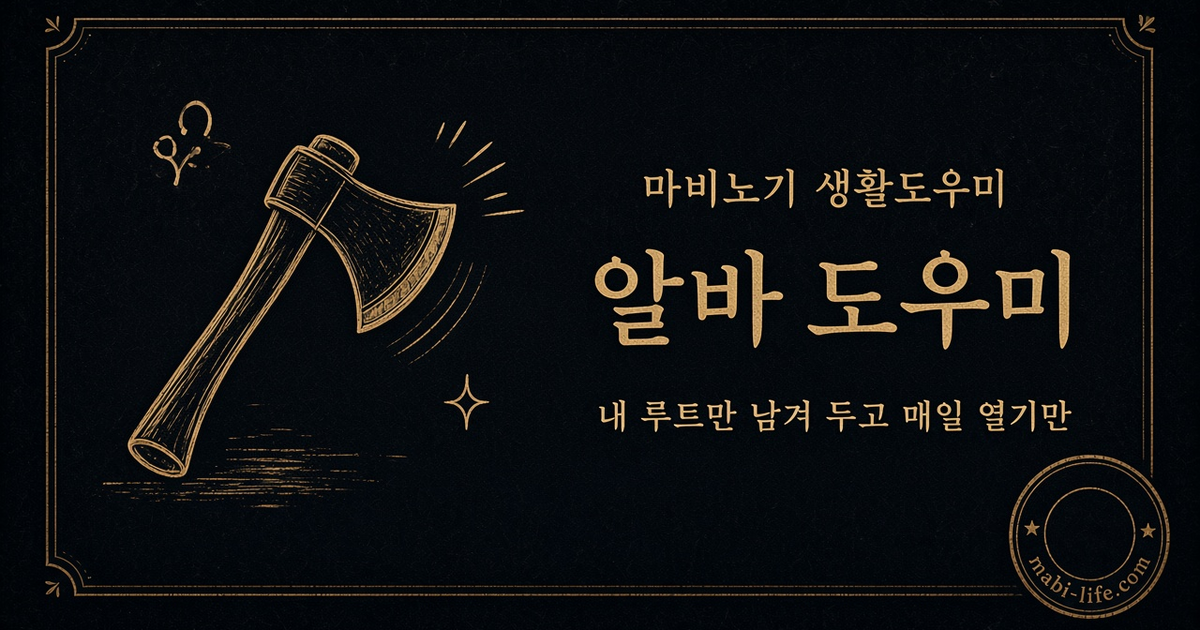
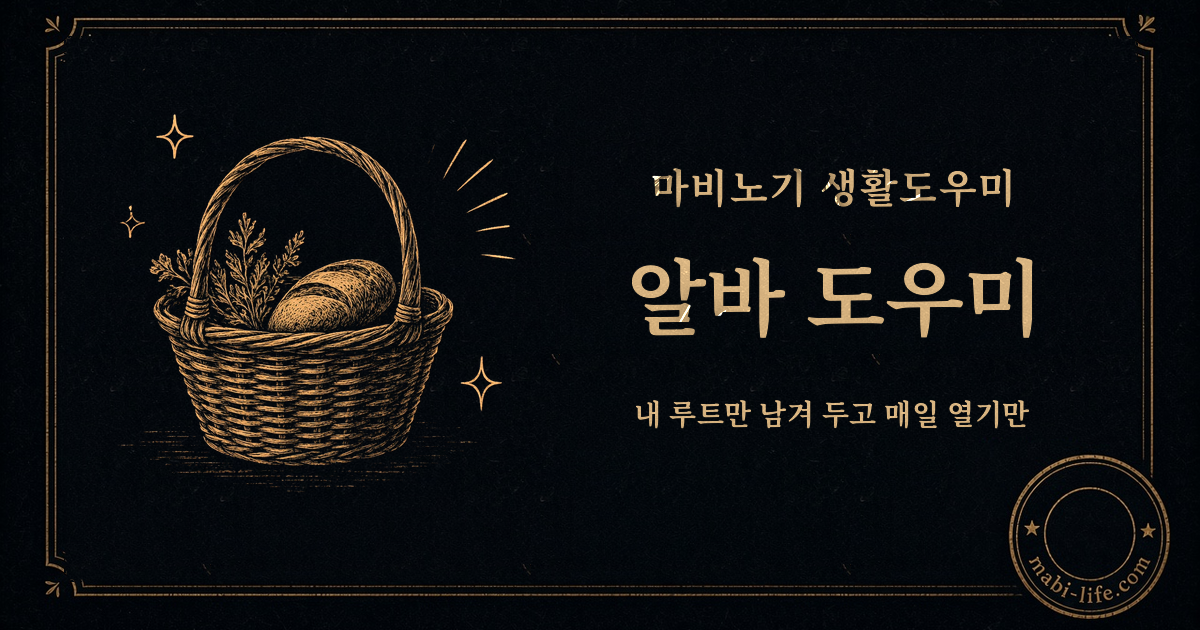
OG 이미지 9장 새 스타일로 통일하고 스케줄 전용 이미지를 연결
글꼴을 맞춘 OG 9장을 교체하고, 스케줄 페이지는 og-schedule.png를 쓰도록 바꿨다.
캐시 무효화 값은 ?v=20261117a 로 통일했다. 이미지는 oxipng로 무손실 압축했다.

diff --git a/docs/craft/index.html b/docs/craft/index.html
@@ -10,10 +10,10 @@
 <meta property="og:title" content="마비노기 제작 계산기·구슬 | 위즈니의 생활도우미">
 <meta property="og:description" content="마비노기 제작 계산기로 재료 트리와 부족한 양을 계산하고, 구슬 가성비도 비교해 봐요. 경매장 재료 시세와 정가 코인 교환을 한곳에서 볼 수 있어요.">
 <meta property="og:url" content="https://mabi-life.com/craft/">
-<meta property="og:image" content="https://mabi-life.com/og-craft.png?v=20261104b">
+<meta property="og:image" content="https://mabi-life.com/og-craft.png?v=20261117a">
 <meta property="og:image:width" content="1200">
 <meta property="og:image:height" content="630">
-<meta name="twitter:card" content="summary_large_image"><meta name="twitter:image" content="https://mabi-life.com/og-craft.png?v=20261104b"><meta name="twitter:description" content="마비노기 제작 계산기로 재료 트리와 부족한 양을 계산하고, 구슬 가성비도 비교해 봐요. 경매장 재료 시세와 정가 코인 교환을 한곳에서 볼 수 있어요."><meta name="twitter:title" content="마비노기 제작 계산기·구슬 | 위즈니의 생활도우미">
+<meta name="twitter:card" content="summary_large_image"><meta name="twitter:image" content="https://mabi-life.com/og-craft.png?v=20261117a"><meta name="twitter:description" content="마비노기 제작 계산기로 재료 트리와 부족한 양을 계산하고, 구슬 가성비도 비교해 봐요. 경매장 재료 시세와 정가 코인 교환을 한곳에서 볼 수 있어요."><meta name="twitter:title" content="마비노기 제작 계산기·구슬 | 위즈니의 생활도우미">
 <link rel="icon" href="/favicon.ico?v=6" sizes="any"><link rel="icon" type="image/png" sizes="32x32" href="/favicon-32.png?v=6">
 <link rel="preconnect" href="https://fonts.googleapis.com"><link rel="preconnect" href="https://fonts.gstatic.com" crossorigin><link href="https://fonts.googleapis.com/css2?family=Noto+Sans+KR:wght@400;500;700;800&display=swap" rel="stylesheet">
 <style>:root {--card:rgba(255,255,255,.05);--line:rgba(247,217,139,.25);--gold:#f7d98b;--tx:#ece8ff;--mu:#a9a2d6}* {box-sizing:border-box;margin:0;padding:0}body {min-height:100vh;font-family:'Noto Sans KR','Apple SD Gothic Neo','Malgun Gothic',sans-serif;background:#0b0918 radial-gradient(circle at 50% 0%,#2b2357 0%,#141029 55%,#0b0918 100%) no-repeat fixed;color:var(--tx);padding:18px 14px}.wrap {max-width:1240px;margin:0 auto}.siteNav {display:flex;align-items:center;gap:2px;margin:0 0 10px;font-size:14px}.siteNav a {color:#a9a2d4;text-decoration:none;padding:3px 10px;border-radius:999px}.siteNav a:hover {color:#ffe7a3}.head {margin:10px 0 18px}.head h1 {font-size:30px;font-weight:800;background:linear-gradient(90deg,#f7d98b,#fff3cf,#f7d98b);-webkit-background-clip:text;background-clip:text;color:transparent}.verBadge {font-size:12.5px;color:var(--mu);border:1px solid var(--line);border-radius:999px;padding:1px 8px;margin-left:6px;vertical-align:middle;font-weight:500;-webkit-text-fill-color:var(--mu)}.head p {margin-top:6px;color:var(--mu);font-size:16px}.bar {display:flex;gap:10px;flex-wrap:wrap;align-items:center;margin-bottom:12px}.btn {font:inherit;cursor:pointer;padding:7px 14px;border-radius:999px;font-size:14px;font-weight:700;background:rgba(255,255,255,.07);border:1px solid rgba(247,217,139,.35);color:#f3eefe}.btn:disabled {opacity:.5;cursor:not-allowed}select, input[type=number] {background:#120e28;border:1px solid var(--line);color:var(--tx);border-radius:8px;padding:6px 8px;font:inherit;font-size:14px}input[type=number] {width:72px}.totals {display:flex;gap:22px;flex-wrap:wrap;align-items:center;padding:10px 18px;background:var(--card);border:1px solid var(--line);border-radius:16px;font-size:14px;margin-bottom:10px}.totals b {color:var(--gold)}.cond {font-size:14px;color:var(--mu);margin-bottom:22px}.cond b {color:var(--gold)}.scroll {overflow-x:auto;padding-bottom:10px;width:calc(100vw - 28px);position:relative;left:50%;transform:translateX(-50%)}.tree {display:inline-block;min-width:100%;text-align:center}.tree ul {display:flex;justify-content:center;list-style:none;margin:0;padding:18px 0 0;position:relative}#root>ul, .treeRoot>ul {padding-top:0}.tree li {display:flex;flex-direction:column;align-items:center;position:relative;padding:18px 2px 0;min-width:0}#root>ul>li, .treeRoot>ul>li {padding-top:0}.tree li:before, .tree li:after {content:"";position:absolute;top:0;width:50%;border-top:1px solid #c9a24a99}.tree li:before {right:50%}.tree li:after {left:50%;border-left:1px solid #c9a24a99;height:18px}.tree li:first-child:before, .tree li:last-child:after {border:0}.tree li:last-child:before {border-right:1px solid #c9a24a99;height:18px}.tree li:only-child:before {border:0}.tree li:only-child:after {border-top:0;left:50%}#root>ul>li:before, .treeRoot>ul>li:before, #root>ul>li:after, .treeRoot>ul>li:after {display:none}.tree ul ul:before {content:"";position:absolute;top:0;left:50%;height:18px;border-left:1px solid #c9a24a99}.bal {display:inline-flex;flex-direction:column;align-items:center;gap:3px;background:#16213a;border:1px solid #c9a24a66;border-radius:8px;padding:6px 9px;white-space:nowrap;font-size:14px}.tree ul ul .bal {padding:4px 6px;font-size:13.5px;max-width:118px;white-space:normal;text-align:center}.tree ul ul .bal .t {flex-wrap:wrap;justify-content:center;gap:3px}.tree ul ul .q {white-space:nowrap}.bal.craft {cursor:pointer}.bal.craft:hover {border-color:#e8c66a}.bal .t {display:flex;align-items:center;gap:5px}.bal b {font-weight:600}.bal.goal {--ac:#e8c66a;background:#2a2410;border-color:#e8c66a;padding:8px 14px}.bal.goal b {font-size:16px;color:#e8c66a}.tag {font-size:11.5px;border:1px solid;border-radius:4px;padding:0 4px}.ic {width:18px;height:18px;border-radius:4px;display:inline-grid;place-items:center;font-size:12.5px}.ic.im {width:24px;height:24px;object-fit:contain;border-radius:0;flex:none}.coin {display:block;font-size:11.5px;color:#d59bff;text-decoration:none;margin-top:2px;white-space:nowrap}.coin.best, #cond a {color:#d59bff}.coin.best {font-weight:700}.coin:hover {text-decoration:underline}.chev {color:#e8c66a99;font-size:11.5px}.q {font-size:13.5px;font-variant-numeric:tabular-nums;color:#8a96b3;display:flex;align-items:center;gap:3px}.q em {font-style:normal;color:#ff8a7a;font-weight:700}.q.ok em {color:#7fd99a}.q input[type=number] {width:46px;padding:0 3px;font-size:12.5px;border-radius:4px}.need0 {color:#6fd39b!important}.hint {font-size:12.5px;color:#7d75b0;margin-top:4px}.siteFoot {margin:28px auto 18px;padding:22px 16px 28px;max-width:1180px;text-align:center;font-size:14px;line-height:1.65;color:#8a90a0;position:relative;border-top:1px solid #232733}.siteFoot .gold {position:absolute;top:-1px;left:50%;transform:translateX(-50%);width:80px;height:2px;background:linear-gradient(90deg,transparent,#f7d98b,transparent)}.siteFoot a {color:#c9b27a;text-decoration:none}.siteFoot a:hover {color:#f7d98b;text-decoration:underline}.siteFoot a {color:inherit;text-decoration:none}.siteFoot a:hover {text-decoration:underline}#root, .treeRoot {display:flex;flex-direction:column;align-items:flex-start}.row {display:flex;gap:6px;position:relative;padding-top:22px;width:max-content}.row:first-child {padding-top:0}.row:before {content:"";position:absolute;top:0;left:var(--px,50%);height:22px;border-left:1px solid #c9a24a99}.row:first-child:before {display:none}.row .bal.open {outline:2px solid #e8c66a;box-shadow:0 4px 12px #e8c66a33}.row.drop {padding-top:14px}.row.drop:before {height:14px;border-left-style:dashed}.row {transition:opacity .2s,transform .2s}.row.out {opacity:0;transform:translateY(-10px)}.bal.ph {visibility:visible!important;opacity:.28;filter:grayscale(1);background:transparent!important;border:1px solid #c9a24a88!important;pointer-events:none;box-shadow:none!important;outline:0!important;cursor:default}.bal.press {transform:scale(.95);transition:transform .1s;box-shadow:0 0 0 3px #e8c66a55}.row:before {top:-1px;height:23px}.row.drop {padding-top:12px}.row.drop:before {top:-1px;height:13px;border-left:2px solid #e8c66a}.row.drop+.row:before {border-left:2px solid #e8c66a}.row.drop+.row {padding-top:22px}.row:not(.drop):before {display:none}.row .ln {position:absolute;border-left:1px solid #c9a24acc;border-top:1px solid #c9a24acc;pointer-events:none}.row.drop+.row .ln {border-color:#e8c66a}html {scrollbar-gutter:stable}#root>.row:first-child .bal, .treeRoot>.row:first-child .bal {animation:none!important;transform:none!important}.bal.ph {visibility:hidden!important;opacity:1;filter:none}.bal.ph:after {content:"";visibility:visible;position:absolute;left:50%;top:-1px;bottom:-13px;border-left:2px solid #e8c66a}.bal.ph {position:relative}.bal.press {transform:scale(.92)!important;transition:transform .11s cubic-bezier(.5,0,.75,0)!important}.row.drop:before {display:none}.scroll {overflow-y:hidden;scrollbar-color:#3a4256 transparent;scrollbar-width:thin}.scroll::-webkit-scrollbar {height:8px;background:transparent}.scroll::-webkit-scrollbar-thumb {background:#3a4256;border-radius:4px}html {scrollbar-gutter:auto}#root .row, .treeRoot .row {contain:layout}.bal.ph:after {display:none!important}#root .ln, .treeRoot .ln, #root .row.drop+.row .ln, .treeRoot .row.drop+.row .ln {border-color:#c9a24acc!important;border-width:1px 0 0 1px!important;border-style:solid!important}#root .row:before, .treeRoot .row:before {border-left:1px solid #c9a24acc!important}#root, .treeRoot {position:relative;display:block!important}#root .nd, .treeRoot .nd {position:absolute;margin:0;white-space:nowrap}svg.lines {position:absolute;left:0;top:0;pointer-events:none;overflow:visible}.bal.nd.press {transform:scale(.92)}#vCoin input[type=number] {width:110px;text-align:right}#vCoin .tabs {display:flex;border:1px solid var(--line);border-radius:12px 12px 0 0;overflow:hidden}#vCoin .tabs button {flex:1;font:inherit;font-weight:700;font-size:16px;padding:10px;cursor:pointer;background:transparent;color:var(--mu);border:0}#vCoin .tabs button.on {background:linear-gradient(90deg,#c9a24a,#f7d98b);color:#1a1530}#vCoin .panel {border:1px solid var(--line);border-top:0;border-radius:0 0 12px 12px;background:var(--card);padding:14px}#vCoin .panel h2 {font-size:19px;margin-bottom:10px}#vCoin .bar {display:flex;gap:10px 16px;flex-wrap:wrap;align-items:center;font-size:16px;margin-bottom:10px}#vCoin input[type=number], #vCoin select {background:#120e28;border:1px solid var(--line);color:var(--tx);border-radius:8px;padding:6px 8px;font:inherit;font-size:16px}#vCoin input[type=number] {width:110px;text-align:right}#vCoin input[type=number]::-webkit-inner-spin-button, #vCoin input[type=number]::-webkit-outer-spin-button {-webkit-appearance:none;margin:0}input[type=number] {-moz-appearance:textfield;appearance:textfield}#vCoin .prog {height:6px;border-radius:9px;background:#2a2450;overflow:hidden;margin:-2px 0 12px}.prog i {display:block;height:100%;background:linear-gradient(90deg,#c9a24a,#f7d98b);width:0}#vCoin .sum {font-size:14px;color:var(--mu);margin-bottom:10px}.sum b {color:var(--gold)}#vCoin table {width:100%;border-collapse:collapse;font-size:16px}#vCoin th {font-size:14px;color:var(--mu);font-weight:500;padding:8px 6px;border-bottom:1px solid var(--line);cursor:pointer;user-select:none;white-space:nowrap}#vCoin td {padding:9px 6px;border-bottom:1px solid rgba(255,255,255,.06);vertical-align:middle}#vCoin th:nth-child(2), #vCoin td:nth-child(2) {text-align:center}th:nth-child(3), td:nth-child(3) {text-align:right}th:nth-child(4), td:nth-child(4) {text-align:center;width:46px}th:first-child {text-align:left}#vCoin td small {display:block;font-size:12.5px;color:var(--mu)}#vCoin td.p {font-variant-numeric:tabular-nums;white-space:nowrap}td.p b {color:var(--gold)}#vCoin tr.best td {background:rgba(247,217,139,.09)}tr.best td:first-child:before {content:"👑 "}#vCoin tr.ign td {opacity:.38}tr.ign td:last-child {opacity:1}#vCoin .ok {color:#7fd99a}.bad {color:#f39a9a}#vCoin .bead {font-size:14.5px;line-height:1.7;border:1px dashed var(--line);border-radius:10px;padding:8px 10px;margin-bottom:10px}.bead b {color:var(--gold)}.bead small {color:var(--mu)}.bead details {margin-top:4px;font-size:13.5px;color:var(--mu)}.bead details div {padding:2px 0;border-bottom:1px solid rgba(255,255,255,.05)}#vCoin textarea {width:100%;min-height:60px;background:#120e28;border:1px solid var(--line);color:var(--tx);border-radius:8px;padding:6px 8px;font:inherit;font-size:14px}.vtabs {display:flex;gap:6px;margin:0 0 14px}.vtabs a {font-weight:700;font-size:16px;padding:7px 16px;border-radius:999px;text-decoration:none;color:var(--mu);border:1px solid var(--line)}.vtabs a.on {background:linear-gradient(90deg,#c9a24a,#f7d98b);color:#1a1530;border-color:transparent}#vCoin .bchart {display:block;width:100%;height:auto;margin:6px 0 2px;font-size:11.5px;fill:#a9a2d6}#vCoin .leg {font-size:12.5px;color:var(--mu)}#vCoin .leg i {display:inline-block;width:8px;height:8px;border-radius:50%;margin:0 4px 0 8px}#vCoin .leg span {margin-left:8px}#vCoin tr.nadv td {opacity:.5}#vCoin td.v {text-align:center;white-space:nowrap;font-size:14px}#vCoin td.v small {display:block}#vCoin .mu {color:var(--mu)}#vCoin .ovd {font-size:13.5px;color:var(--mu);margin:-4px 0 10px}#vCoin .ovd input {width:110px;margin:4px 6px 0 0}#vCoin table.imt {width:auto;margin:4px 0;font-size:13.5px;border-collapse:collapse}#vCoin table.imt th, #vCoin table.imt td {padding:2px 10px 2px 0;text-align:right;font-weight:normal;border:0}#vCoin table.imt th {color:var(--mu);font-size:12.5px}#vCoin table.imt td:first-child, #vCoin table.imt th:first-child {text-align:left}#vCoin table.imt tr.ex td {opacity:.55;color:var(--mu)}#vCoin table.imt td:last-child {white-space:nowrap}#vCoin .bead .mix {margin:2px 0 4px;font-size:13.5px}#vCoin {max-width:900px;margin:34px auto 0;scroll-margin-top:12px}.secH {font-size:23px;font-weight:800;color:var(--gold);margin:0 0 6px;padding-top:18px;border-top:1px solid var(--line)}.secH small {font-size:14px;color:var(--mu);font-weight:500;margin-left:6px}/* 마인드맵 120%: zoom 대신 실제 크기 확대 (zoom은 측정값과 연결선 좌표가 어긋나 말풍선이 중앙에서 벗어남) */

diff --git a/docs/guide/horn/index.html b/docs/guide/horn/index.html
@@ -5,10 +5,10 @@
 <meta property="og:title" content="마비노기 거뿔(거대한 외침의 뿔피리) 검색하는 법 — 위즈니의 마비노기 생활도우미">
 <meta property="og:description" content="마비노기 거뿔(거대한 외침의 뿔피리)을 류트·만돌린·하프·울프 서버별로 모아 최근 48시간 글을 검색하는 법. 구구·ㅍㅍ, 구슬 시세, 파티 모집을 찾는 요령을 안내해요.">
 <meta property="og:url" content="https://mabi-life.com/guide/horn/">
-<meta property="og:image" content="https://mabi-life.com/og.png?v=20261104c">
+<meta property="og:image" content="https://mabi-life.com/og.png?v=20261117a">
 <meta property="og:image:width" content="1200">
 <meta property="og:image:height" content="630">
-<meta name="twitter:card" content="summary_large_image"><meta name="twitter:image" content="https://mabi-life.com/og.png?v=20261104c"><meta name="twitter:description" content="마비노기 거뿔(거대한 외침의 뿔피리)을 류트·만돌린·하프·울프 서버별로 모아 최근 48시간 글을 검색하는 법. 구구·ㅍㅍ, 구슬 시세, 파티 모집을 찾는 요령을 안내해요."><meta name="twitter:title" content="마비노기 거뿔(거대한 외침의 뿔피리) 검색하는 법 — 위즈니의 마비노기 생활도우미"><meta name="viewport" content="width=device-width,initial-scale=1"><meta name="description" content="마비노기 거뿔(거대한 외침의 뿔피리)을 류트·만돌린·하프·울프 서버별로 모아 최근 48시간 글을 검색하는 법. 구구·ㅍㅍ, 구슬 시세, 파티 모집을 찾는 요령을 안내해요."><link rel="icon" href="/favicon.ico?v=6" sizes="any"><link rel="icon" type="image/png" sizes="32x32" href="/favicon-32.png?v=6"><link rel="icon" type="image/png" sizes="192x192" href="/favicon-192.png?v=6"><link rel="apple-touch-icon" href="/apple-touch-icon.png?v=6"><link rel="preconnect" href="https://fonts.googleapis.com"><link href="https://fonts.googleapis.com/css2?family=Gowun+Batang:wght@400;700&family=Gowun+Dodum&display=swap" rel="stylesheet"><style>
+<meta name="twitter:card" content="summary_large_image"><meta name="twitter:image" content="https://mabi-life.com/og.png?v=20261117a"><meta name="twitter:description" content="마비노기 거뿔(거대한 외침의 뿔피리)을 류트·만돌린·하프·울프 서버별로 모아 최근 48시간 글을 검색하는 법. 구구·ㅍㅍ, 구슬 시세, 파티 모집을 찾는 요령을 안내해요."><meta name="twitter:title" content="마비노기 거뿔(거대한 외침의 뿔피리) 검색하는 법 — 위즈니의 마비노기 생활도우미"><meta name="viewport" content="width=device-width,initial-scale=1"><meta name="description" content="마비노기 거뿔(거대한 외침의 뿔피리)을 류트·만돌린·하프·울프 서버별로 모아 최근 48시간 글을 검색하는 법. 구구·ㅍㅍ, 구슬 시세, 파티 모집을 찾는 요령을 안내해요."><link rel="icon" href="/favicon.ico?v=6" sizes="any"><link rel="icon" type="image/png" sizes="32x32" href="/favicon-32.png?v=6"><link rel="icon" type="image/png" sizes="192x192" href="/favicon-192.png?v=6"><link rel="apple-touch-icon" href="/apple-touch-icon.png?v=6"><link rel="preconnect" href="https://fonts.googleapis.com"><link href="https://fonts.googleapis.com/css2?family=Gowun+Batang:wght@400;700&family=Gowun+Dodum&display=swap" rel="stylesheet"><style>
 html{background:#0f1115}body{margin:0;background:radial-gradient(ellipse 90% 60% at 50% 0%,#243044 0%,transparent 55%),linear-gradient(180deg,#14161b,#0f1115 55%,#0c0e12);color:#e6e8ee;font-family:'Gowun Dodum',sans-serif;line-height:1.8;min-height:100vh}
 .doc{max-width:780px;margin:0 auto;padding:40px 22px 20px}
 .back{color:#c9b27a;text-decoration:none;font-size:16px}.back:hover{text-decoration:underline}

diff --git a/docs/guide/index.html b/docs/guide/index.html
@@ -5,10 +5,10 @@
 <meta property="og:title" content="가이드 — 마비노기 알바·물교·제작·경매장 시세 사용법 | 위즈니의 마비노기 생활도우미">
 <meta property="og:description" content="마비노기 알바 시간, 물교 적재, 던전 보상, 분배 계산, 제작 재료, 경매장 시세, 거뿔 검색 도구의 사용 가이드 모음. 실제 화면과 자주 묻는 질문을 정리했어요.">
 <meta property="og:url" content="https://mabi-life.com/guide/">
-<meta property="og:image" content="https://mabi-life.com/og.png?v=20261104c">
+<meta property="og:image" content="https://mabi-life.com/og.png?v=20261117a">
 <meta property="og:image:width" content="1200">
 <meta property="og:image:height" content="630">
-<meta name="twitter:card" content="summary_large_image"><meta name="twitter:image" content="https://mabi-life.com/og.png?v=20261104c"><meta name="twitter:description" content="마비노기 알바 시간, 물교 적재, 던전 보상, 분배 계산, 제작 재료, 경매장 시세, 거뿔 검색 도구의 사용 가이드 모음. 실제 화면과 자주 묻는 질문을 정리했어요."><meta name="twitter:title" content="가이드 — 마비노기 알바·물교·제작·경매장 시세 사용법 | 위즈니의 마비노기 생활도우미"><meta name="viewport" content="width=device-width,initial-scale=1"><meta name="description" content="마비노기 알바 시간, 물교 적재, 던전 보상, 분배 계산, 제작 재료, 경매장 시세, 거뿔 검색 도구의 사용 가이드 모음. 실제 화면과 자주 묻는 질문을 정리했어요."><link rel="icon" href="/favicon.ico?v=6" sizes="any"><link rel="icon" type="image/png" sizes="32x32" href="/favicon-32.png?v=6"><link rel="icon" type="image/png" sizes="192x192" href="/favicon-192.png?v=6"><link rel="apple-touch-icon" href="/apple-touch-icon.png?v=6"><link rel="preconnect" href="https://fonts.googleapis.com"><link href="https://fonts.googleapis.com/css2?family=Gowun+Batang:wght@400;700&family=Gowun+Dodum&display=swap" rel="stylesheet"><style>
+<meta name="twitter:card" content="summary_large_image"><meta name="twitter:image" content="https://mabi-life.com/og.png?v=20261117a"><meta name="twitter:description" content="마비노기 알바 시간, 물교 적재, 던전 보상, 분배 계산, 제작 재료, 경매장 시세, 거뿔 검색 도구의 사용 가이드 모음. 실제 화면과 자주 묻는 질문을 정리했어요."><meta name="twitter:title" content="가이드 — 마비노기 알바·물교·제작·경매장 시세 사용법 | 위즈니의 마비노기 생활도우미"><meta name="viewport" content="width=device-width,initial-scale=1"><meta name="description" content="마비노기 알바 시간, 물교 적재, 던전 보상, 분배 계산, 제작 재료, 경매장 시세, 거뿔 검색 도구의 사용 가이드 모음. 실제 화면과 자주 묻는 질문을 정리했어요."><link rel="icon" href="/favicon.ico?v=6" sizes="any"><link rel="icon" type="image/png" sizes="32x32" href="/favicon-32.png?v=6"><link rel="icon" type="image/png" sizes="192x192" href="/favicon-192.png?v=6"><link rel="apple-touch-icon" href="/apple-touch-icon.png?v=6"><link rel="preconnect" href="https://fonts.googleapis.com"><link href="https://fonts.googleapis.com/css2?family=Gowun+Batang:wght@400;700&family=Gowun+Dodum&display=swap" rel="stylesheet"><style>
 html{background:#0f1115}body{margin:0;background:radial-gradient(ellipse 90% 60% at 50% 0%,#243044 0%,transparent 55%),linear-gradient(180deg,#14161b,#0f1115 55%,#0c0e12);color:#e6e8ee;font-family:'Gowun Dodum',sans-serif;line-height:1.8;min-height:100vh}
 .doc{max-width:780px;margin:0 auto;padding:40px 22px 20px}
 .back{color:#c9b27a;text-decoration:none;font-size:16px}.back:hover{text-decoration:underline}

diff --git a/docs/guide/auction/index.html b/docs/guide/auction/index.html
@@ -5,10 +5,10 @@
 <meta property="og:title" content="마비노기 경매장 시세 — 유물·인챈트·에코스톤·토템·주화 가이드">
 <meta property="og:description" content="마비노기 경매장 시세를 유물, 인챈트 스크롤, 에코스톤, 토템, 브리레흐·탈라가흐 주화 탭에서 비교하는 법. API가 주지 않는 주화 효과 주의점도 안내해요.">
 <meta property="og:url" content="https://mabi-life.com/guide/auction/">
-<meta property="og:image" content="https://mabi-life.com/og.png?v=20261104c">
+<meta property="og:image" content="https://mabi-life.com/og.png?v=20261117a">
 <meta property="og:image:width" content="1200">
 <meta property="og:image:height" content="630">
-<meta name="twitter:card" content="summary_large_image"><meta name="twitter:image" content="https://mabi-life.com/og.png?v=20261104c"><meta name="twitter:description" content="마비노기 경매장 시세를 유물, 인챈트 스크롤, 에코스톤, 토템, 브리레흐·탈라가흐 주화 탭에서 비교하는 법. API가 주지 않는 주화 효과 주의점도 안내해요."><meta name="twitter:title" content="마비노기 경매장 시세 — 유물·인챈트·에코스톤·토템·주화 가이드"><meta name="viewport" content="width=device-width,initial-scale=1"><meta name="description" content="마비노기 경매장 시세를 유물, 인챈트 스크롤, 에코스톤, 토템, 브리레흐·탈라가흐 주화 탭에서 비교하는 법. API가 주지 않는 주화 효과 주의점도 안내해요."><link rel="icon" href="/favicon.ico?v=6" sizes="any"><link rel="icon" type="image/png" sizes="32x32" href="/favicon-32.png?v=6"><link rel="icon" type="image/png" sizes="192x192" href="/favicon-192.png?v=6"><link rel="apple-touch-icon" href="/apple-touch-icon.png?v=6"><link rel="preconnect" href="https://fonts.googleapis.com"><link href="https://fonts.googleapis.com/css2?family=Gowun+Batang:wght@400;700&family=Gowun+Dodum&display=swap" rel="stylesheet"><style>
+<meta name="twitter:card" content="summary_large_image"><meta name="twitter:image" content="https://mabi-life.com/og.png?v=20261117a"><meta name="twitter:description" content="마비노기 경매장 시세를 유물, 인챈트 스크롤, 에코스톤, 토템, 브리레흐·탈라가흐 주화 탭에서 비교하는 법. API가 주지 않는 주화 효과 주의점도 안내해요."><meta name="twitter:title" content="마비노기 경매장 시세 — 유물·인챈트·에코스톤·토템·주화 가이드"><meta name="viewport" content="width=device-width,initial-scale=1"><meta name="description" content="마비노기 경매장 시세를 유물, 인챈트 스크롤, 에코스톤, 토템, 브리레흐·탈라가흐 주화 탭에서 비교하는 법. API가 주지 않는 주화 효과 주의점도 안내해요."><link rel="icon" href="/favicon.ico?v=6" sizes="any"><link rel="icon" type="image/png" sizes="32x32" href="/favicon-32.png?v=6"><link rel="icon" type="image/png" sizes="192x192" href="/favicon-192.png?v=6"><link rel="apple-touch-icon" href="/apple-touch-icon.png?v=6"><link rel="preconnect" href="https://fonts.googleapis.com"><link href="https://fonts.googleapis.com/css2?family=Gowun+Batang:wght@400;700&family=Gowun+Dodum&display=swap" rel="stylesheet"><style>
 html{background:#0f1115}body{margin:0;background:radial-gradient(ellipse 90% 60% at 50% 0%,#243044 0%,transparent 55%),linear-gradient(180deg,#14161b,#0f1115 55%,#0c0e12);color:#e6e8ee;font-family:'Gowun Dodum',sans-serif;line-height:1.8;min-height:100vh}
 .doc{max-width:780px;margin:0 auto;padding:40px 22px 20px}
 .back{color:#c9b27a;text-decoration:none;font-size:16px}.back:hover{text-decoration:underline}

diff --git a/docs/guide/alba/index.html b/docs/guide/alba/index.html
@@ -5,10 +5,10 @@
 <meta property="og:title" content="마비노기 알바 시간·보상 시세 보는 법 — 위즈니의 마비노기 생활도우미">
 <meta property="og:description" content="마비노기 알바(아르바이트) 시간과 알바 보상 시세를 에린 시간에 맞춰 보는 법. 등급·버프, 동선, 예상 골드 계산까지 알바 도우미 화면으로 설명해요.">
 <meta property="og:url" content="https://mabi-life.com/guide/alba/">
-<meta property="og:image" content="https://mabi-life.com/og.png?v=20261104c">
+<meta property="og:image" content="https://mabi-life.com/og.png?v=20261117a">
 <meta property="og:image:width" content="1200">
 <meta property="og:image:height" content="630">
-<meta name="twitter:card" content="summary_large_image"><meta name="twitter:image" content="https://mabi-life.com/og.png?v=20261104c"><meta name="twitter:description" content="마비노기 알바(아르바이트) 시간과 알바 보상 시세를 에린 시간에 맞춰 보는 법. 등급·버프, 동선, 예상 골드 계산까지 알바 도우미 화면으로 설명해요."><meta name="twitter:title" content="마비노기 알바 시간·보상 시세 보는 법 — 위즈니의 마비노기 생활도우미"><meta name="viewport" content="width=device-width,initial-scale=1"><meta name="description" content="마비노기 알바(아르바이트) 시간과 알바 보상 시세를 에린 시간에 맞춰 보는 법. 등급·버프, 동선, 예상 골드 계산까지 알바 도우미 화면으로 설명해요."><link rel="icon" href="/favicon.ico?v=6" sizes="any"><link rel="icon" type="image/png" sizes="32x32" href="/favicon-32.png?v=6"><link rel="icon" type="image/png" sizes="192x192" href="/favicon-192.png?v=6"><link rel="apple-touch-icon" href="/apple-touch-icon.png?v=6"><link rel="preconnect" href="https://fonts.googleapis.com"><link href="https://fonts.googleapis.com/css2?family=Gowun+Batang:wght@400;700&family=Gowun+Dodum&display=swap" rel="stylesheet"><style>
+<meta name="twitter:card" content="summary_large_image"><meta name="twitter:image" content="https://mabi-life.com/og.png?v=20261117a"><meta name="twitter:description" content="마비노기 알바(아르바이트) 시간과 알바 보상 시세를 에린 시간에 맞춰 보는 법. 등급·버프, 동선, 예상 골드 계산까지 알바 도우미 화면으로 설명해요."><meta name="twitter:title" content="마비노기 알바 시간·보상 시세 보는 법 — 위즈니의 마비노기 생활도우미"><meta name="viewport" content="width=device-width,initial-scale=1"><meta name="description" content="마비노기 알바(아르바이트) 시간과 알바 보상 시세를 에린 시간에 맞춰 보는 법. 등급·버프, 동선, 예상 골드 계산까지 알바 도우미 화면으로 설명해요."><link rel="icon" href="/favicon.ico?v=6" sizes="any"><link rel="icon" type="image/png" sizes="32x32" href="/favicon-32.png?v=6"><link rel="icon" type="image/png" sizes="192x192" href="/favicon-192.png?v=6"><link rel="apple-touch-icon" href="/apple-touch-icon.png?v=6"><link rel="preconnect" href="https://fonts.googleapis.com"><link href="https://fonts.googleapis.com/css2?family=Gowun+Batang:wght@400;700&family=Gowun+Dodum&display=swap" rel="stylesheet"><style>
 html{background:#0f1115}body{margin:0;background:radial-gradient(ellipse 90% 60% at 50% 0%,#243044 0%,transparent 55%),linear-gradient(180deg,#14161b,#0f1115 55%,#0c0e12);color:#e6e8ee;font-family:'Gowun Dodum',sans-serif;line-height:1.8;min-height:100vh}
 .doc{max-width:780px;margin:0 auto;padding:40px 22px 20px}
 .back{color:#c9b27a;text-decoration:none;font-size:16px}.back:hover{text-decoration:underline}

diff --git a/docs/guide/dungeon/index.html b/docs/guide/dungeon/index.html
@@ -5,10 +5,10 @@
 <meta property="og:title" content="마비노기 던전 보상·입장 비용 기록하는 법 — 위즈니의 마비노기 생활도우미">
 <meta property="og:description" content="마비노기 크롬바스·글렌베르나·브리레흐·탈라가흐 던전 보상과 입장 비용을 캐릭터별로 기록하는 법. 편린 시세와 4관 헤일로 알람도 안내해요.">
 <meta property="og:url" content="https://mabi-life.com/guide/dungeon/">
-<meta property="og:image" content="https://mabi-life.com/og.png?v=20261104c">
+<meta property="og:image" content="https://mabi-life.com/og.png?v=20261117a">
 <meta property="og:image:width" content="1200">
 <meta property="og:image:height" content="630">
-<meta name="twitter:card" content="summary_large_image"><meta name="twitter:image" content="https://mabi-life.com/og.png?v=20261104c"><meta name="twitter:description" content="마비노기 크롬바스·글렌베르나·브리레흐·탈라가흐 던전 보상과 입장 비용을 캐릭터별로 기록하는 법. 편린 시세와 4관 헤일로 알람도 안내해요."><meta name="twitter:title" content="마비노기 던전 보상·입장 비용 기록하는 법 — 위즈니의 마비노기 생활도우미"><meta name="viewport" content="width=device-width,initial-scale=1"><meta name="description" content="마비노기 크롬바스·글렌베르나·브리레흐·탈라가흐 던전 보상과 입장 비용을 캐릭터별로 기록하는 법. 편린 시세와 4관 헤일로 알람도 안내해요."><link rel="icon" href="/favicon.ico?v=6" sizes="any"><link rel="icon" type="image/png" sizes="32x32" href="/favicon-32.png?v=6"><link rel="icon" type="image/png" sizes="192x192" href="/favicon-192.png?v=6"><link rel="apple-touch-icon" href="/apple-touch-icon.png?v=6"><link rel="preconnect" href="https://fonts.googleapis.com"><link href="https://fonts.googleapis.com/css2?family=Gowun+Batang:wght@400;700&family=Gowun+Dodum&display=swap" rel="stylesheet"><style>
+<meta name="twitter:card" content="summary_large_image"><meta name="twitter:image" content="https://mabi-life.com/og.png?v=20261117a"><meta name="twitter:description" content="마비노기 크롬바스·글렌베르나·브리레흐·탈라가흐 던전 보상과 입장 비용을 캐릭터별로 기록하는 법. 편린 시세와 4관 헤일로 알람도 안내해요."><meta name="twitter:title" content="마비노기 던전 보상·입장 비용 기록하는 법 — 위즈니의 마비노기 생활도우미"><meta name="viewport" content="width=device-width,initial-scale=1"><meta name="description" content="마비노기 크롬바스·글렌베르나·브리레흐·탈라가흐 던전 보상과 입장 비용을 캐릭터별로 기록하는 법. 편린 시세와 4관 헤일로 알람도 안내해요."><link rel="icon" href="/favicon.ico?v=6" sizes="any"><link rel="icon" type="image/png" sizes="32x32" href="/favicon-32.png?v=6"><link rel="icon" type="image/png" sizes="192x192" href="/favicon-192.png?v=6"><link rel="apple-touch-icon" href="/apple-touch-icon.png?v=6"><link rel="preconnect" href="https://fonts.googleapis.com"><link href="https://fonts.googleapis.com/css2?family=Gowun+Batang:wght@400;700&family=Gowun+Dodum&display=swap" rel="stylesheet"><style>
 html{background:#0f1115}body{margin:0;background:radial-gradient(ellipse 90% 60% at 50% 0%,#243044 0%,transparent 55%),linear-gradient(180deg,#14161b,#0f1115 55%,#0c0e12);color:#e6e8ee;font-family:'Gowun Dodum',sans-serif;line-height:1.8;min-height:100vh}
 .doc{max-width:780px;margin:0 auto;padding:40px 22px 20px}
 .back{color:#c9b27a;text-decoration:none;font-size:16px}.back:hover{text-decoration:underline}

diff --git a/docs/guide/craft/index.html b/docs/guide/craft/index.html
@@ -5,10 +5,10 @@
 <meta property="og:title" content="마비노기 제작 재료 계산 — 나브·소울·더스크바운드 사용법 | 위즈니의 마비노기 생활도우미">
 <meta property="og:description" content="마비노기 더스크바운드·나브·소울 제작 재료를 트리로 계산하고, 경매장 시세와 구슬 교환·직접 제작 비용을 비교하는 제작 도우미 사용법이에요.">
 <meta property="og:url" content="https://mabi-life.com/guide/craft/">
-<meta property="og:image" content="https://mabi-life.com/og.png?v=20261104c">
+<meta property="og:image" content="https://mabi-life.com/og.png?v=20261117a">
 <meta property="og:image:width" content="1200">
 <meta property="og:image:height" content="630">
-<meta name="twitter:card" content="summary_large_image"><meta name="twitter:image" content="https://mabi-life.com/og.png?v=20261104c"><meta name="twitter:description" content="마비노기 더스크바운드·나브·소울 제작 재료를 트리로 계산하고, 경매장 시세와 구슬 교환·직접 제작 비용을 비교하는 제작 도우미 사용법이에요."><meta name="twitter:title" content="제작 도우미 사용법 가이드 — 위즈니의 마비노기 생활도우미"><meta name="viewport" content="width=device-width,initial-scale=1"><meta name="description" content="마비노기 더스크바운드·나브·소울 제작 재료를 트리로 계산하고, 경매장 시세와 구슬 교환·직접 제작 비용을 비교하는 제작 도우미 사용법이에요."><link rel="icon" href="/favicon.ico?v=6" sizes="any"><link rel="icon" type="image/png" sizes="32x32" href="/favicon-32.png?v=6"><link rel="icon" type="image/png" sizes="192x192" href="/favicon-192.png?v=6"><link rel="apple-touch-icon" href="/apple-touch-icon.png?v=6"><link rel="preconnect" href="https://fonts.googleapis.com"><link href="https://fonts.googleapis.com/css2?family=Gowun+Batang:wght@400;700&family=Gowun+Dodum&display=swap" rel="stylesheet"><style>
+<meta name="twitter:card" content="summary_large_image"><meta name="twitter:image" content="https://mabi-life.com/og.png?v=20261117a"><meta name="twitter:description" content="마비노기 더스크바운드·나브·소울 제작 재료를 트리로 계산하고, 경매장 시세와 구슬 교환·직접 제작 비용을 비교하는 제작 도우미 사용법이에요."><meta name="twitter:title" content="제작 도우미 사용법 가이드 — 위즈니의 마비노기 생활도우미"><meta name="viewport" content="width=device-width,initial-scale=1"><meta name="description" content="마비노기 더스크바운드·나브·소울 제작 재료를 트리로 계산하고, 경매장 시세와 구슬 교환·직접 제작 비용을 비교하는 제작 도우미 사용법이에요."><link rel="icon" href="/favicon.ico?v=6" sizes="any"><link rel="icon" type="image/png" sizes="32x32" href="/favicon-32.png?v=6"><link rel="icon" type="image/png" sizes="192x192" href="/favicon-192.png?v=6"><link rel="apple-touch-icon" href="/apple-touch-icon.png?v=6"><link rel="preconnect" href="https://fonts.googleapis.com"><link href="https://fonts.googleapis.com/css2?family=Gowun+Batang:wght@400;700&family=Gowun+Dodum&display=swap" rel="stylesheet"><style>
 html{background:#0f1115}body{margin:0;background:radial-gradient(ellipse 90% 60% at 50% 0%,#243044 0%,transparent 55%),linear-gradient(180deg,#14161b,#0f1115 55%,#0c0e12);color:#e6e8ee;font-family:'Gowun Dodum',sans-serif;line-height:1.8;min-height:100vh}
 .doc{max-width:780px;margin:0 auto;padding:40px 22px 20px}
 .back{color:#c9b27a;text-decoration:none;font-size:16px}.back:hover{text-decoration:underline}

diff --git a/docs/guide/bunbae/index.html b/docs/guide/bunbae/index.html
@@ -5,10 +5,10 @@
 <meta property="og:title" content="마비노기 분배 계산·경매장 수수료 나누는 법 — 위즈니의 마비노기 생활도우미">
 <meta property="og:description" content="마비노기 보상 분배를 기록하고 경매장 수수료·쿠폰을 반영해 1인당 분배금을 계산하는 법. 스크린샷 인식과 공유 링크 사용법을 안내해요.">
 <meta property="og:url" content="https://mabi-life.com/guide/bunbae/">
-<meta property="og:image" content="https://mabi-life.com/og.png?v=20261104c">
+<meta property="og:image" content="https://mabi-life.com/og.png?v=20261117a">
 <meta property="og:image:width" content="1200">
 <meta property="og:image:height" content="630">
-<meta name="twitter:card" content="summary_large_image"><meta name="twitter:image" content="https://mabi-life.com/og.png?v=20261104c"><meta name="twitter:description" content="마비노기 보상 분배를 기록하고 경매장 수수료·쿠폰을 반영해 1인당 분배금을 계산하는 법. 스크린샷 인식과 공유 링크 사용법을 안내해요."><meta name="twitter:title" content="마비노기 분배 계산·경매장 수수료 나누는 법 — 위즈니의 마비노기 생활도우미"><meta name="viewport" content="width=device-width,initial-scale=1"><meta name="description" content="마비노기 보상 분배를 기록하고 경매장 수수료·쿠폰을 반영해 1인당 분배금을 계산하는 법. 스크린샷 인식과 공유 링크 사용법을 안내해요."><link rel="icon" href="/favicon.ico?v=6" sizes="any"><link rel="icon" type="image/png" sizes="32x32" href="/favicon-32.png?v=6"><link rel="icon" type="image/png" sizes="192x192" href="/favicon-192.png?v=6"><link rel="apple-touch-icon" href="/apple-touch-icon.png?v=6"><link rel="preconnect" href="https://fonts.googleapis.com"><link href="https://fonts.googleapis.com/css2?family=Gowun+Batang:wght@400;700&family=Gowun+Dodum&display=swap" rel="stylesheet"><style>
+<meta name="twitter:card" content="summary_large_image"><meta name="twitter:image" content="https://mabi-life.com/og.png?v=20261117a"><meta name="twitter:description" content="마비노기 보상 분배를 기록하고 경매장 수수료·쿠폰을 반영해 1인당 분배금을 계산하는 법. 스크린샷 인식과 공유 링크 사용법을 안내해요."><meta name="twitter:title" content="마비노기 분배 계산·경매장 수수료 나누는 법 — 위즈니의 마비노기 생활도우미"><meta name="viewport" content="width=device-width,initial-scale=1"><meta name="description" content="마비노기 보상 분배를 기록하고 경매장 수수료·쿠폰을 반영해 1인당 분배금을 계산하는 법. 스크린샷 인식과 공유 링크 사용법을 안내해요."><link rel="icon" href="/favicon.ico?v=6" sizes="any"><link rel="icon" type="image/png" sizes="32x32" href="/favicon-32.png?v=6"><link rel="icon" type="image/png" sizes="192x192" href="/favicon-192.png?v=6"><link rel="apple-touch-icon" href="/apple-touch-icon.png?v=6"><link rel="preconnect" href="https://fonts.googleapis.com"><link href="https://fonts.googleapis.com/css2?family=Gowun+Batang:wght@400;700&family=Gowun+Dodum&display=swap" rel="stylesheet"><style>
 html{background:#0f1115}body{margin:0;background:radial-gradient(ellipse 90% 60% at 50% 0%,#243044 0%,transparent 55%),linear-gradient(180deg,#14161b,#0f1115 55%,#0c0e12);color:#e6e8ee;font-family:'Gowun Dodum',sans-serif;line-height:1.8;min-height:100vh}
 .doc{max-width:780px;margin:0 auto;padding:40px 22px 20px}
 .back{color:#c9b27a;text-decoration:none;font-size:16px}.back:hover{text-decoration:underline}

diff --git a/docs/guide/barter/index.html b/docs/guide/barter/index.html
@@ -5,10 +5,10 @@
 <meta property="og:title" content="마비노기 물교(물물교환) 적재·루트 짜는 법 — 위즈니의 마비노기 생활도우미">
 <meta property="og:description" content="마비노기 물교·물물교환 회차별 적재와 루트를 짜는 법. 운송 수단, 재료 체크, 어디에 팔까 교역 시세까지 물교 도우미 화면으로 설명해요.">
 <meta property="og:url" content="https://mabi-life.com/guide/barter/">
-<meta property="og:image" content="https://mabi-life.com/og.png?v=20261104c">
+<meta property="og:image" content="https://mabi-life.com/og.png?v=20261117a">
 <meta property="og:image:width" content="1200">
 <meta property="og:image:height" content="630">
-<meta name="twitter:card" content="summary_large_image"><meta name="twitter:image" content="https://mabi-life.com/og.png?v=20261104c"><meta name="twitter:description" content="마비노기 물교·물물교환 회차별 적재와 루트를 짜는 법. 운송 수단, 재료 체크, 어디에 팔까 교역 시세까지 물교 도우미 화면으로 설명해요."><meta name="twitter:title" content="마비노기 물교(물물교환) 적재·루트 짜는 법 — 위즈니의 마비노기 생활도우미"><meta name="viewport" content="width=device-width,initial-scale=1"><meta name="description" content="마비노기 물교·물물교환 회차별 적재와 루트를 짜는 법. 운송 수단, 재료 체크, 어디에 팔까 교역 시세까지 물교 도우미 화면으로 설명해요."><link rel="icon" href="/favicon.ico?v=6" sizes="any"><link rel="icon" type="image/png" sizes="32x32" href="/favicon-32.png?v=6"><link rel="icon" type="image/png" sizes="192x192" href="/favicon-192.png?v=6"><link rel="apple-touch-icon" href="/apple-touch-icon.png?v=6"><link rel="preconnect" href="https://fonts.googleapis.com"><link href="https://fonts.googleapis.com/css2?family=Gowun+Batang:wght@400;700&family=Gowun+Dodum&display=swap" rel="stylesheet"><style>
+<meta name="twitter:card" content="summary_large_image"><meta name="twitter:image" content="https://mabi-life.com/og.png?v=20261117a"><meta name="twitter:description" content="마비노기 물교·물물교환 회차별 적재와 루트를 짜는 법. 운송 수단, 재료 체크, 어디에 팔까 교역 시세까지 물교 도우미 화면으로 설명해요."><meta name="twitter:title" content="마비노기 물교(물물교환) 적재·루트 짜는 법 — 위즈니의 마비노기 생활도우미"><meta name="viewport" content="width=device-width,initial-scale=1"><meta name="description" content="마비노기 물교·물물교환 회차별 적재와 루트를 짜는 법. 운송 수단, 재료 체크, 어디에 팔까 교역 시세까지 물교 도우미 화면으로 설명해요."><link rel="icon" href="/favicon.ico?v=6" sizes="any"><link rel="icon" type="image/png" sizes="32x32" href="/favicon-32.png?v=6"><link rel="icon" type="image/png" sizes="192x192" href="/favicon-192.png?v=6"><link rel="apple-touch-icon" href="/apple-touch-icon.png?v=6"><link rel="preconnect" href="https://fonts.googleapis.com"><link href="https://fonts.googleapis.com/css2?family=Gowun+Batang:wght@400;700&family=Gowun+Dodum&display=swap" rel="stylesheet"><style>
 html{background:#0f1115}body{margin:0;background:radial-gradient(ellipse 90% 60% at 50% 0%,#243044 0%,transparent 55%),linear-gradient(180deg,#14161b,#0f1115 55%,#0c0e12);color:#e6e8ee;font-family:'Gowun Dodum',sans-serif;line-height:1.8;min-height:100vh}
 .doc{max-width:780px;margin:0 auto;padding:40px 22px 20px}
 .back{color:#c9b27a;text-decoration:none;font-size:16px}.back:hover{text-decoration:underline}

diff --git a/docs/guide/schedule/index.html b/docs/guide/schedule/index.html
@@ -5,10 +5,10 @@
 <meta property="og:title" content="마비노기 파티 일정·고정 파티 관리하는 법 — 위즈니의 마비노기 생활도우미">
 <meta property="og:description" content="마비노기 고정 파티와 일회성 파티 일정을 기록하고, 남은 시간과 완료·불참, 브라우저 알림까지 스케줄 도우미로 관리하는 법이에요.">
 <meta property="og:url" content="https://mabi-life.com/guide/schedule/">
-<meta property="og:image" content="https://mabi-life.com/og.png?v=20261104c">
+<meta property="og:image" content="https://mabi-life.com/og.png?v=20261117a">
 <meta property="og:image:width" content="1200">
 <meta property="og:image:height" content="630">
-<meta name="twitter:card" content="summary_large_image"><meta name="twitter:image" content="https://mabi-life.com/og.png?v=20261104c"><meta name="twitter:description" content="마비노기 고정 파티와 일회성 파티 일정을 기록하고, 남은 시간과 완료·불참, 브라우저 알림까지 스케줄 도우미로 관리하는 법이에요."><meta name="twitter:title" content="마비노기 파티 일정·고정 파티 관리하는 법 — 위즈니의 마비노기 생활도우미"><meta name="viewport" content="width=device-width,initial-scale=1"><meta name="description" content="마비노기 고정 파티와 일회성 파티 일정을 기록하고, 남은 시간과 완료·불참, 브라우저 알림까지 스케줄 도우미로 관리하는 법이에요."><link rel="icon" href="/favicon.ico?v=6" sizes="any"><link rel="icon" type="image/png" sizes="32x32" href="/favicon-32.png?v=6"><link rel="icon" type="image/png" sizes="192x192" href="/favicon-192.png?v=6"><link rel="apple-touch-icon" href="/apple-touch-icon.png?v=6"><link rel="preconnect" href="https://fonts.googleapis.com"><link href="https://fonts.googleapis.com/css2?family=Gowun+Batang:wght@400;700&family=Gowun+Dodum&display=swap" rel="stylesheet"><style>
+<meta name="twitter:card" content="summary_large_image"><meta name="twitter:image" content="https://mabi-life.com/og.png?v=20261117a"><meta name="twitter:description" content="마비노기 고정 파티와 일회성 파티 일정을 기록하고, 남은 시간과 완료·불참, 브라우저 알림까지 스케줄 도우미로 관리하는 법이에요."><meta name="twitter:title" content="마비노기 파티 일정·고정 파티 관리하는 법 — 위즈니의 마비노기 생활도우미"><meta name="viewport" content="width=device-width,initial-scale=1"><meta name="description" content="마비노기 고정 파티와 일회성 파티 일정을 기록하고, 남은 시간과 완료·불참, 브라우저 알림까지 스케줄 도우미로 관리하는 법이에요."><link rel="icon" href="/favicon.ico?v=6" sizes="any"><link rel="icon" type="image/png" sizes="32x32" href="/favicon-32.png?v=6"><link rel="icon" type="image/png" sizes="192x192" href="/favicon-192.png?v=6"><link rel="apple-touch-icon" href="/apple-touch-icon.png?v=6"><link rel="preconnect" href="https://fonts.googleapis.com"><link href="https://fonts.googleapis.com/css2?family=Gowun+Batang:wght@400;700&family=Gowun+Dodum&display=swap" rel="stylesheet"><style>
 html{background:#0f1115}body{margin:0;background:radial-gradient(ellipse 90% 60% at 50% 0%,#243044 0%,transparent 55%),linear-gradient(180deg,#14161b,#0f1115 55%,#0c0e12);color:#e6e8ee;font-family:'Gowun Dodum',sans-serif;line-height:1.8;min-height:100vh}
 .doc{max-width:780px;margin:0 auto;padding:40px 22px 20px}
 .back{color:#c9b27a;text-decoration:none;font-size:16px}.back:hover{text-decoration:underline}

diff --git a/docs/about/index.html b/docs/about/index.html
@@ -5,10 +5,10 @@
 <meta property="og:title" content="사이트 소개 — 위즈니의 마비노기 생활도우미">
 <meta property="og:description" content="위즈니의 마비노기 생활도우미(mabi-life.com) 소개 — 알바·물물교환·던전·분배·제작·경매장 시세를 한곳에서 정리하고 계산하는 비공식 팬 도구">
 <meta property="og:url" content="https://mabi-life.com/about/">
-<meta property="og:image" content="https://mabi-life.com/og.png?v=20261104c">
+<meta property="og:image" content="https://mabi-life.com/og.png?v=20261117a">
 <meta property="og:image:width" content="1200">
 <meta property="og:image:height" content="630">
-<meta name="twitter:card" content="summary_large_image"><meta name="twitter:image" content="https://mabi-life.com/og.png?v=20261104c"><meta name="twitter:description" content="위즈니의 마비노기 생활도우미(mabi-life.com) 소개 — 알바·물물교환·던전·분배·제작·경매장 시세를 한곳에서 정리하고 계산하는 비공식 팬 도구"><meta name="twitter:title" content="사이트 소개 — 위즈니의 마비노기 생활도우미"><meta name="viewport" content="width=device-width,initial-scale=1"><meta name="description" content="위즈니의 마비노기 생활도우미(mabi-life.com) 소개 — 알바·물물교환·던전·분배·제작·경매장 시세를 한곳에서 정리하고 계산하는 비공식 팬 도구"><link rel="icon" href="/favicon.ico?v=6" sizes="any"><link rel="icon" type="image/png" sizes="32x32" href="/favicon-32.png?v=6"><link rel="icon" type="image/png" sizes="192x192" href="/favicon-192.png?v=6"><link rel="apple-touch-icon" href="/apple-touch-icon.png?v=6"><link rel="preconnect" href="https://fonts.googleapis.com"><link href="https://fonts.googleapis.com/css2?family=Gowun+Batang:wght@400;700&family=Gowun+Dodum&display=swap" rel="stylesheet"><style>
+<meta name="twitter:card" content="summary_large_image"><meta name="twitter:image" content="https://mabi-life.com/og.png?v=20261117a"><meta name="twitter:description" content="위즈니의 마비노기 생활도우미(mabi-life.com) 소개 — 알바·물물교환·던전·분배·제작·경매장 시세를 한곳에서 정리하고 계산하는 비공식 팬 도구"><meta name="twitter:title" content="사이트 소개 — 위즈니의 마비노기 생활도우미"><meta name="viewport" content="width=device-width,initial-scale=1"><meta name="description" content="위즈니의 마비노기 생활도우미(mabi-life.com) 소개 — 알바·물물교환·던전·분배·제작·경매장 시세를 한곳에서 정리하고 계산하는 비공식 팬 도구"><link rel="icon" href="/favicon.ico?v=6" sizes="any"><link rel="icon" type="image/png" sizes="32x32" href="/favicon-32.png?v=6"><link rel="icon" type="image/png" sizes="192x192" href="/favicon-192.png?v=6"><link rel="apple-touch-icon" href="/apple-touch-icon.png?v=6"><link rel="preconnect" href="https://fonts.googleapis.com"><link href="https://fonts.googleapis.com/css2?family=Gowun+Batang:wght@400;700&family=Gowun+Dodum&display=swap" rel="stylesheet"><style>
 html{background:#0f1115}body{margin:0;background:radial-gradient(ellipse 90% 60% at 50% 0%,#243044 0%,transparent 55%),linear-gradient(180deg,#14161b,#0f1115 55%,#0c0e12);color:#e6e8ee;font-family:'Gowun Dodum',sans-serif;line-height:1.8;min-height:100vh}
 .doc{max-width:780px;margin:0 auto;padding:40px 22px 20px}
 .back{color:#c9b27a;text-decoration:none;font-size:16px}.back:hover{text-decoration:underline}

diff --git a/docs/index.html b/docs/index.html
@@ -5,10 +5,10 @@
 <meta property="og:title" content="위즈니의 마비노기 생활도우미">
 <meta property="og:description" content="마비노기 알바·물물교환·던전·분배·제작 계산과 경매장 시세·거뿔 검색을 돕는 위즈니의 마비노기 생활도우미입니다.">
 <meta property="og:url" content="https://mabi-life.com/">
-<meta property="og:image" content="https://mabi-life.com/og.png?v=20261104c">
+<meta property="og:image" content="https://mabi-life.com/og.png?v=20261117a">
 <meta property="og:image:width" content="1200">
 <meta property="og:image:height" content="630">
-<meta name="twitter:card" content="summary_large_image"><meta name="twitter:image" content="https://mabi-life.com/og.png?v=20261104c"><meta name="twitter:description" content="마비노기 알바·물물교환·던전·분배·제작 계산과 경매장 시세·거뿔 검색을 돕는 위즈니의 마비노기 생활도우미입니다."><meta name="twitter:title" content="위즈니의 마비노기 생활도우미"><link rel="icon" href="/favicon.ico?v=6" sizes="any"><link rel="icon" type="image/png" sizes="32x32" href="/favicon-32.png?v=6"><link rel="icon" type="image/png" sizes="192x192" href="/favicon-192.png?v=6"><link rel="apple-touch-icon" href="/apple-touch-icon.png?v=6"><style>:root{--bg:#14161b;--p:#1d2027;--p2:#262a33;--ln:#333846;--tx:#e6e8ee;--mu:#8a90a0;--gd:#f7d98b}
+<meta name="twitter:card" content="summary_large_image"><meta name="twitter:image" content="https://mabi-life.com/og.png?v=20261117a"><meta name="twitter:description" content="마비노기 알바·물물교환·던전·분배·제작 계산과 경매장 시세·거뿔 검색을 돕는 위즈니의 마비노기 생활도우미입니다."><meta name="twitter:title" content="위즈니의 마비노기 생활도우미"><link rel="icon" href="/favicon.ico?v=6" sizes="any"><link rel="icon" type="image/png" sizes="32x32" href="/favicon-32.png?v=6"><link rel="icon" type="image/png" sizes="192x192" href="/favicon-192.png?v=6"><link rel="apple-touch-icon" href="/apple-touch-icon.png?v=6"><style>:root{--bg:#14161b;--p:#1d2027;--p2:#262a33;--ln:#333846;--tx:#e6e8ee;--mu:#8a90a0;--gd:#f7d98b}
 *{box-sizing:border-box}body{margin:0;background:var(--bg);color:var(--tx);font:16px/1.5 "Malgun Gothic","Noto Sans KR",sans-serif;min-height:100vh;min-width:1100px}
 .wrap{max-width:1248px;margin:0 auto;padding:22px 24px}
 .siteNav{display:flex;align-items:center;gap:2px;margin:0 0 8px;font-size:14px}.siteNav a,.siteNav span{color:var(--mu);text-decoration:none;padding:3px 10px;border-radius:999px;white-space:nowrap;line-height:1.3}.siteNav a:hover{color:#f7d98b;background:rgba(255,255,255,.06)}.siteNav .on{color:#f7d98b;background:rgba(247,217,139,.14);font-weight:700}
